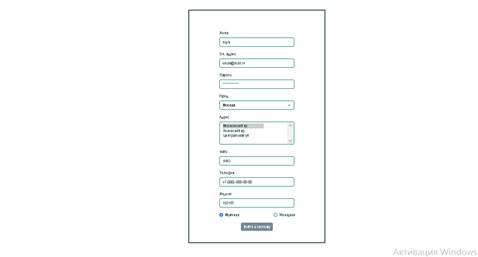
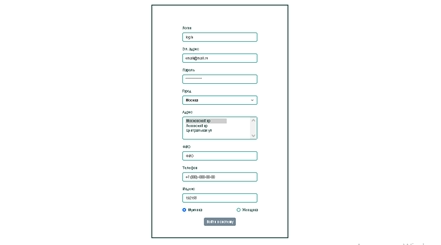
adaptiv4

Changed region(s): [[0.3243, 0.0, 0.7075, 1.0], [0.8254, 0.9714, 1.0, 1.0]]

diff --git a/src/components/main/v-main.vue b/src/components/main/v-main.vue
@@ -5,7 +5,6 @@
             <h2 class="title title_fz16 title__section-title">Портфолио</h2>
             <div class="title title_fz36 title__section-subtitle">Мои <span>VUE</span> работы</div>
             <div class="divider"></div>
-
             <div class="portfolio__wrapper">
                 <router-link to="/vFormValidate" class="portfolio__item">
                     <img src="@/assets/img/works/vue2_form.png" alt="vue2_form">                                    
@@ -39,7 +38,6 @@ export default {
     &__section-title {
         position: relative;
         text-align: center;
-        // @include before_circle;
         &:before {
             top: -6px;
             left: 50%;

diff --git a/src/components/form/v-form-validate.vue b/src/components/form/v-form-validate.vue
@@ -334,6 +334,12 @@ export default {
         width: 55%;
         }
     }
+    @media(max-width: 555px){
+        .form-selected {
+        flex: 0 0 57%;
+        width: 57%;
+        }
+    }
     @media(max-width: 540px){
         .form-selected {
         flex: 0 0 60%;
@@ -405,8 +411,8 @@ export default {
     }
     @media(max-width: 365px){
         .form-selected {
-        flex: 0 0 83%;
-        width: 83%;
+        flex: 0 0 84%;
+        width: 84%;
         }
     }
     @media(max-width: 350px){
